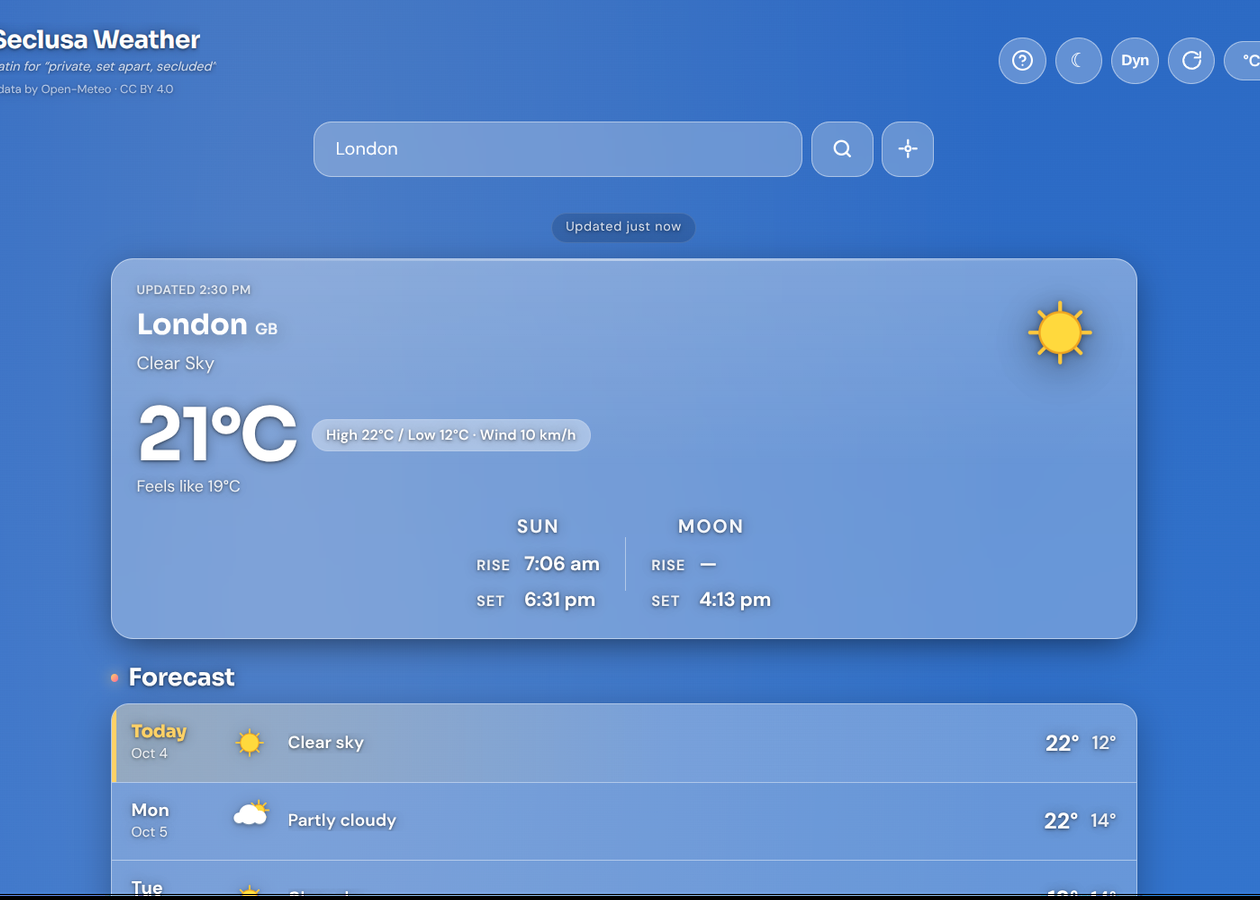
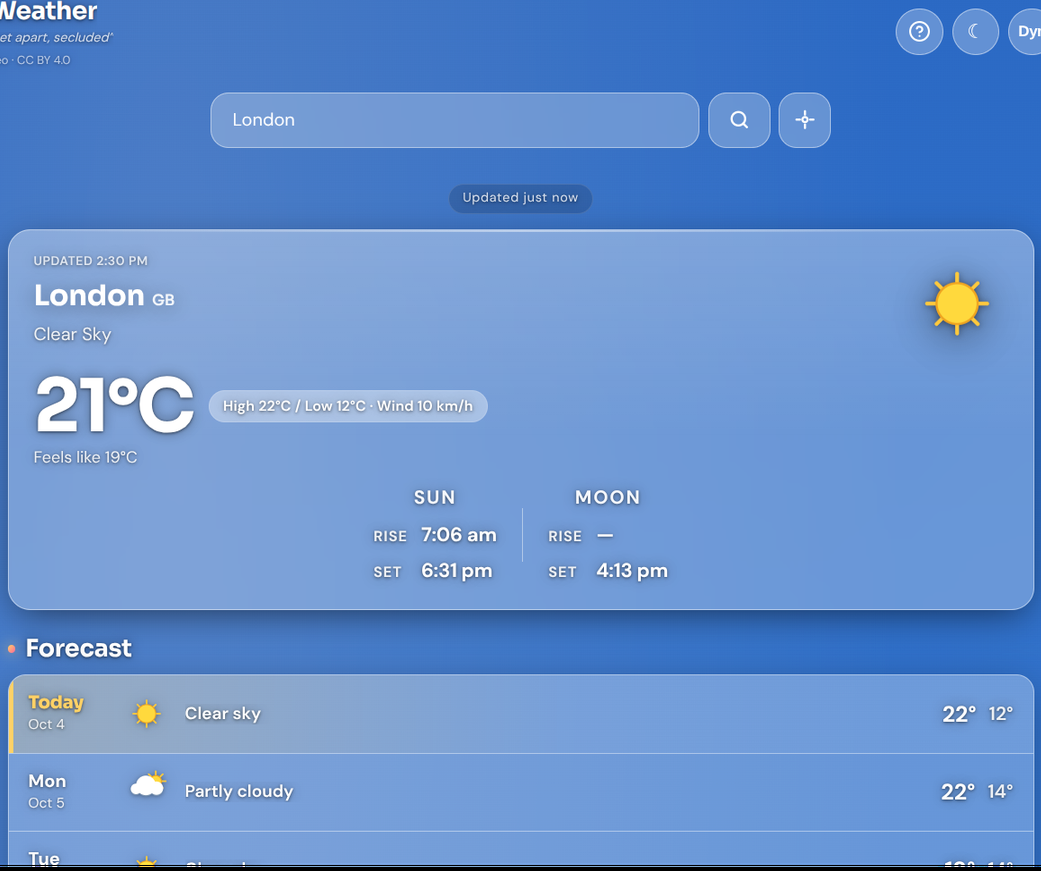
Pack README screenshots into one tight collage.

Changed region(s): [[0.0, 0.0, 1.0, 1.0], [0.0, 0.0, 0.1844, 0.124]]

diff --git a/README.md b/README.md
@@ -19,9 +19,7 @@
 <p align="center"><strong>v0.6.5</strong></p>
 
 <p align="center">
-  <img src="pictures/screenshots/weather-phone.png" alt="Phone — current conditions" height="160">
-  <img src="pictures/screenshots/weather-phone-dark.png" alt="Phone — dark mode" height="160">
-  <img src="pictures/screenshots/weather-desktop.png" alt="Desktop — forecast" height="160">
+  <img src="pictures/screenshots/readme-row.png" alt="Seclusa Weather — phone light, phone dark, desktop" width="820">
 </p>
 
 ---

diff --git a/CHANGELOG.md b/CHANGELOG.md
@@ -9,7 +9,7 @@ All notable changes to **Seclusa Weather**.
 
 ### Changed
 - Shortened README to match Seclusa Solitaire style
-- Cropped README screenshots and show them on one row (height 160)
+- Cropped README screenshots into one tight collage (`readme-row.png`)
 
 ### Fixed
 - Saved place (`lastLat`/`lastLon`) now expires with the same 7-day TTL as weatherCache
